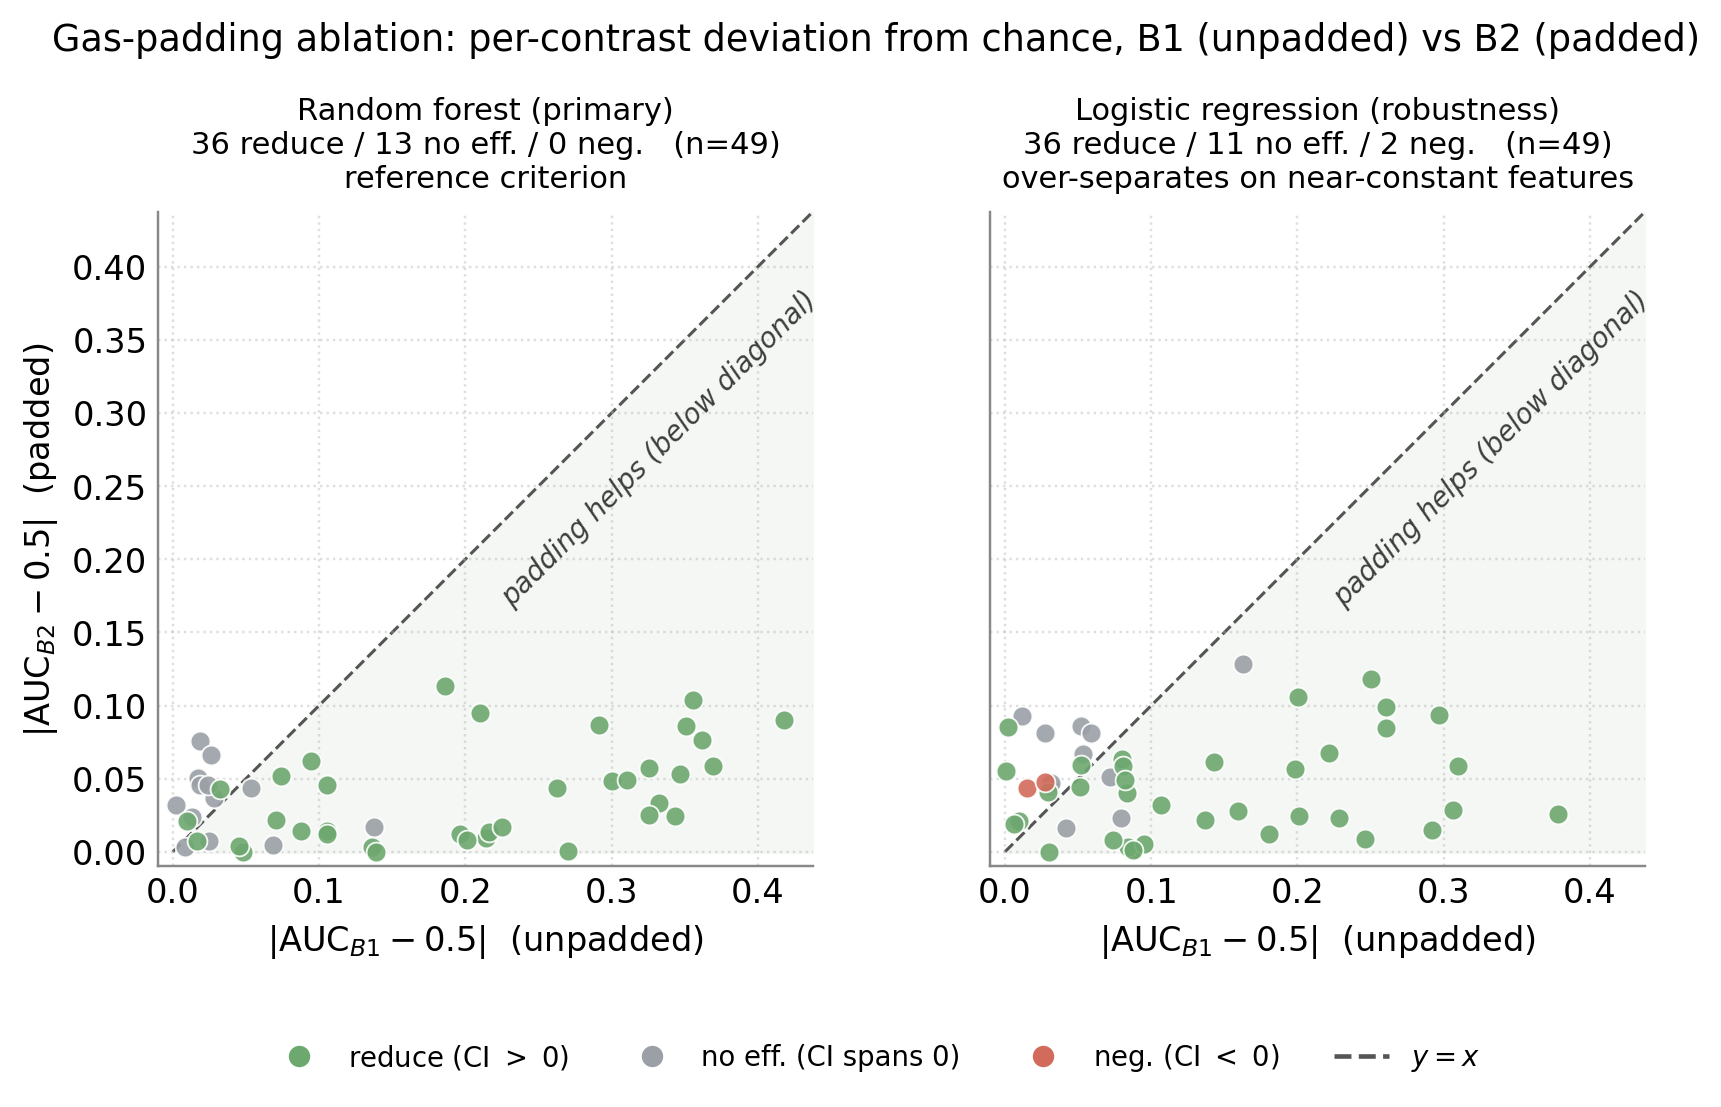
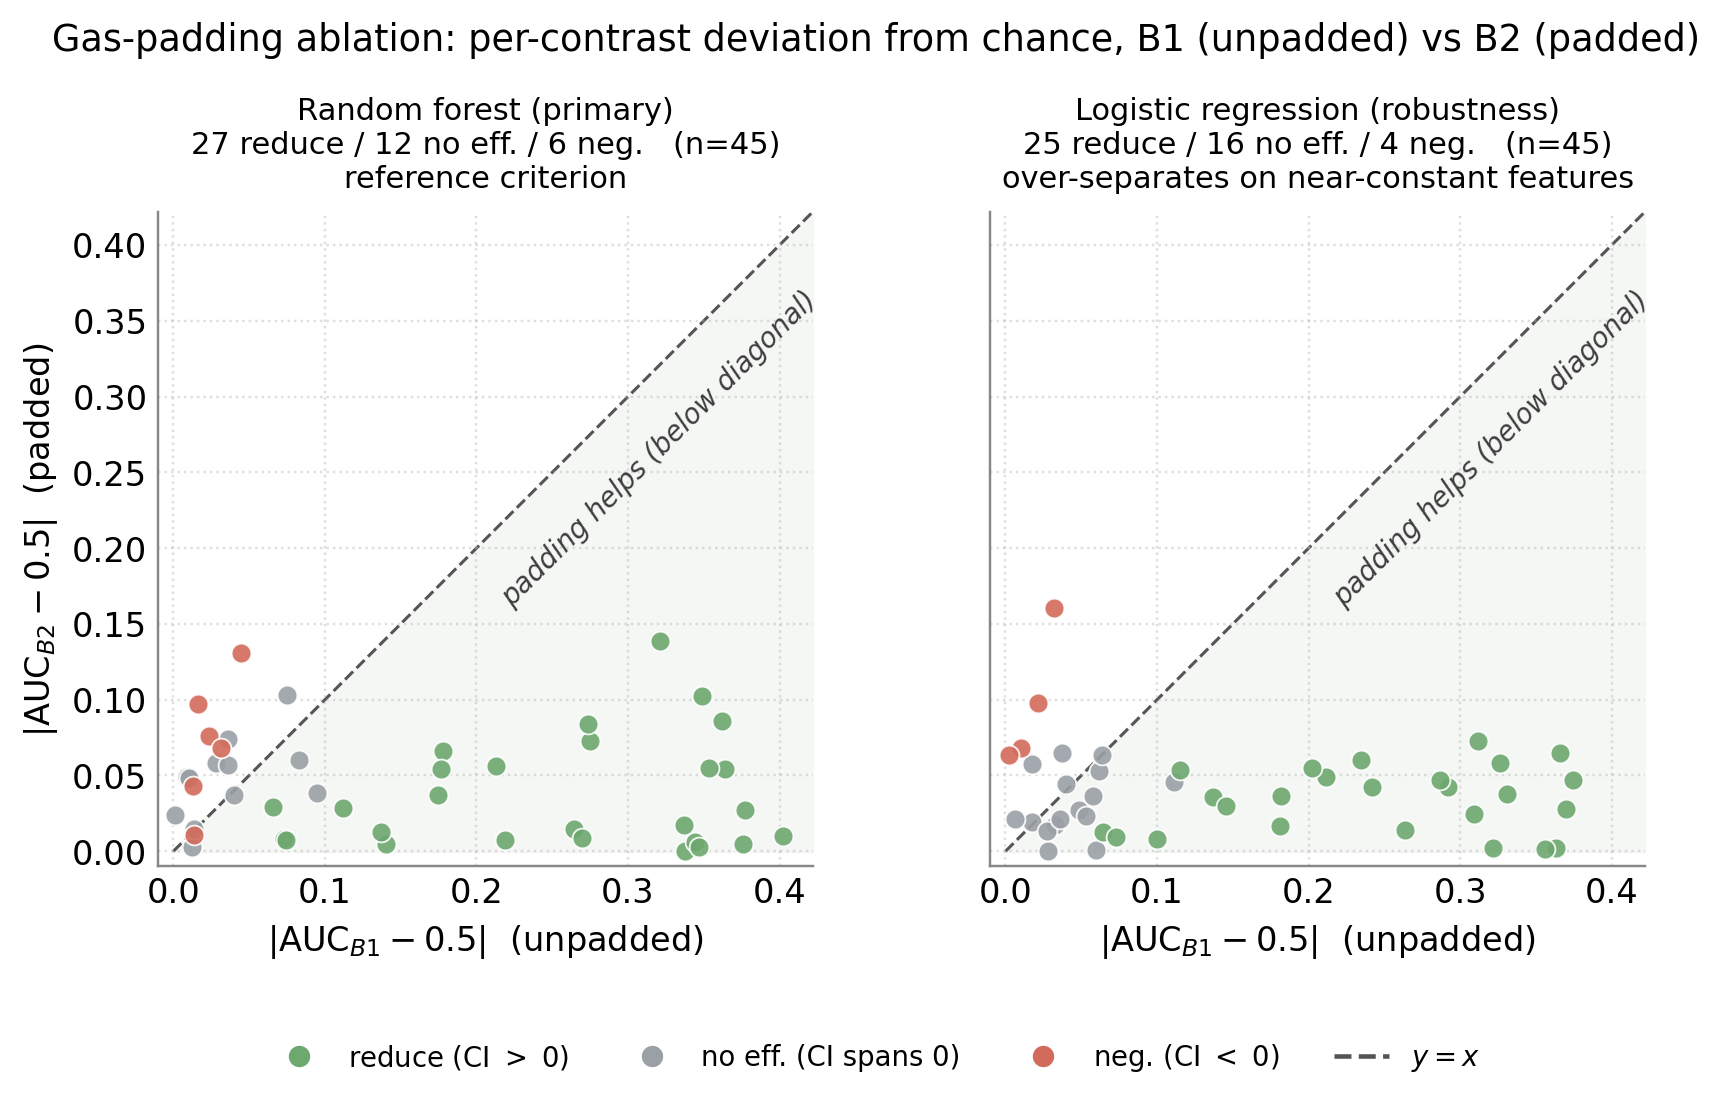
Reviewer 3, comment 3: condense the response; drop the scratch notes
- r3-3: fold the two bold sub-headings and the feature list into two
  paragraphs; the policy-support table in the Design section now carries
  the detail.
- Remove the r1-1/r1-2/r1-3/r3-3 markdown drafts superseded by the
  responses/*.tex letters; rebuild the reviewer 1 and 3 PDFs.
- Refresh the two clustering summary figures.

diff --git a/paper_mdpi/revision round 1/responses/r3-3.tex b/paper_mdpi/revision round 1/responses/r3-3.tex
@@ -8,20 +8,11 @@
 \begin{reviewresponse}{3}
 	We agree that ``external predicate bit'' left the guarantee unclear, and the revision answers the question in two steps: the relation no longer accepts unconstrained predicate bits, and the Design section now states feature by feature what the prototype establishes at authorization time.
 
-	\textbf{Predicates are derived, not asserted.}
-	In the revised relation every predicate bit is derived in-circuit from a witness bound to committed parameters: ontology-scoped conditions (disease, study design, ancestry, geography, clinical term) are Merkle-membership proofs against a provider-committed whitelist root; user-, project-, and institution-specific restrictions are membership proofs of the holder pseudonym in provider-committed allowlists; and the profile-backed data-use terms are derived from the claims of an EdDSA-Poseidon credential that binds the policy commitment, the requester pseudonym, the resource, the claims, a validity interval, and a credential identifier (Reviewer~1, Comment~3).
+	In the revised relation every predicate bit is derived in-circuit from a witness bound to committed parameters: ontology-scoped conditions (disease, study design, ancestry, geography, clinical term) are Merkle-membership proofs against a provider-committed whitelist root; user-, project-, and institution-specific restrictions are membership proofs of the holder pseudonym in provider-committed allowlists; and the profile-backed data-use terms are derived from the claims of an EdDSA-Poseidon credential that binds the policy commitment, the requester pseudonym, the resource, the claims, a validity interval, and a credential identifier.
 	The policy's own validity window is committed and checked against the public request epoch, which the contract requires to equal the current hour.
 
-	\textbf{What is supported end-to-end, and what is not.}
-	A new table in the Design section classifies each consent feature as decided in-circuit, decided on-chain by the access-control contract from public state, committed but not decided at request time, or not provided:
-	\begin{itemize}
-		\item \emph{In-circuit:} categorical DUO terms combined with AND/OR (thirteen non-procedural attributes, programs up to $64$ tokens); the five ontology-scoped conditions; the three requester allowlists; the eight profile-backed terms; the policy validity window.
-		\item \emph{On-chain:} time-limited use (the DUO term TS): the committed duration starts a per-requester window on the first grant, after which requests are denied; consent withdrawal and policy evolution: a successor policy supersedes its predecessor, a policy can be revoked, and a resource can be rebound, so earlier grants remain auditable but are no longer current.
-		\item \emph{Committed only:} a publication moratorium (MOR) is bound into the policy as an obligation the requester accepts; publication conduct cannot be observed at request time.
-		\item \emph{Not provided:} purpose limitation, the post-access duties PUB, COL, and RTN, delegation, and credential revocation are carried by the data access agreement and the issuer lifecycle, outside the proved statement. Negation is evaluated by the interpreter but rejected by the DUO compiler, because membership witnesses prove inclusion only.
-	\end{itemize}
-	The manuscript now characterizes the prototype as an access-time consent checker for bounded Boolean policies over standardized terms rather than a general consent-language engine, and the Conclusion lists the unsupported features among its limitations.
-	Extending the class further (a governed issuer registry with in-circuit membership and revocation witnesses, and holder-controlled release of claims) is discussed as future work; none of it requires changing the interpreter or the public interface, because new conditions enter through predicate slots and the fixed-format parameter commitment.
+	A new table in the Design section classifies each consent feature as decided in-circuit, decided on-chain by the access-control contract from public state, committed but not decided at request time, or not provided. The Conclusion lists the unsupported features among its limitations, and the Discussion suggests future work to extend the class further (a governed issuer registry with in-circuit membership and revocation witnesses, and holder-controlled release of claims) without changing the interpreter or the public interface, because new conditions enter through predicate slots and the fixed-format parameter commitment.
+
 
 	\RevisionLocation{Section ``TPS-ZKPI Design,'' subsection ``Policy Representation and Interpretation,'' new paragraph ``Scope of the supported policies'' and the new policy-support table; Section ``Conclusion,'' third paragraph.}
 	\begin{revisiontext}
